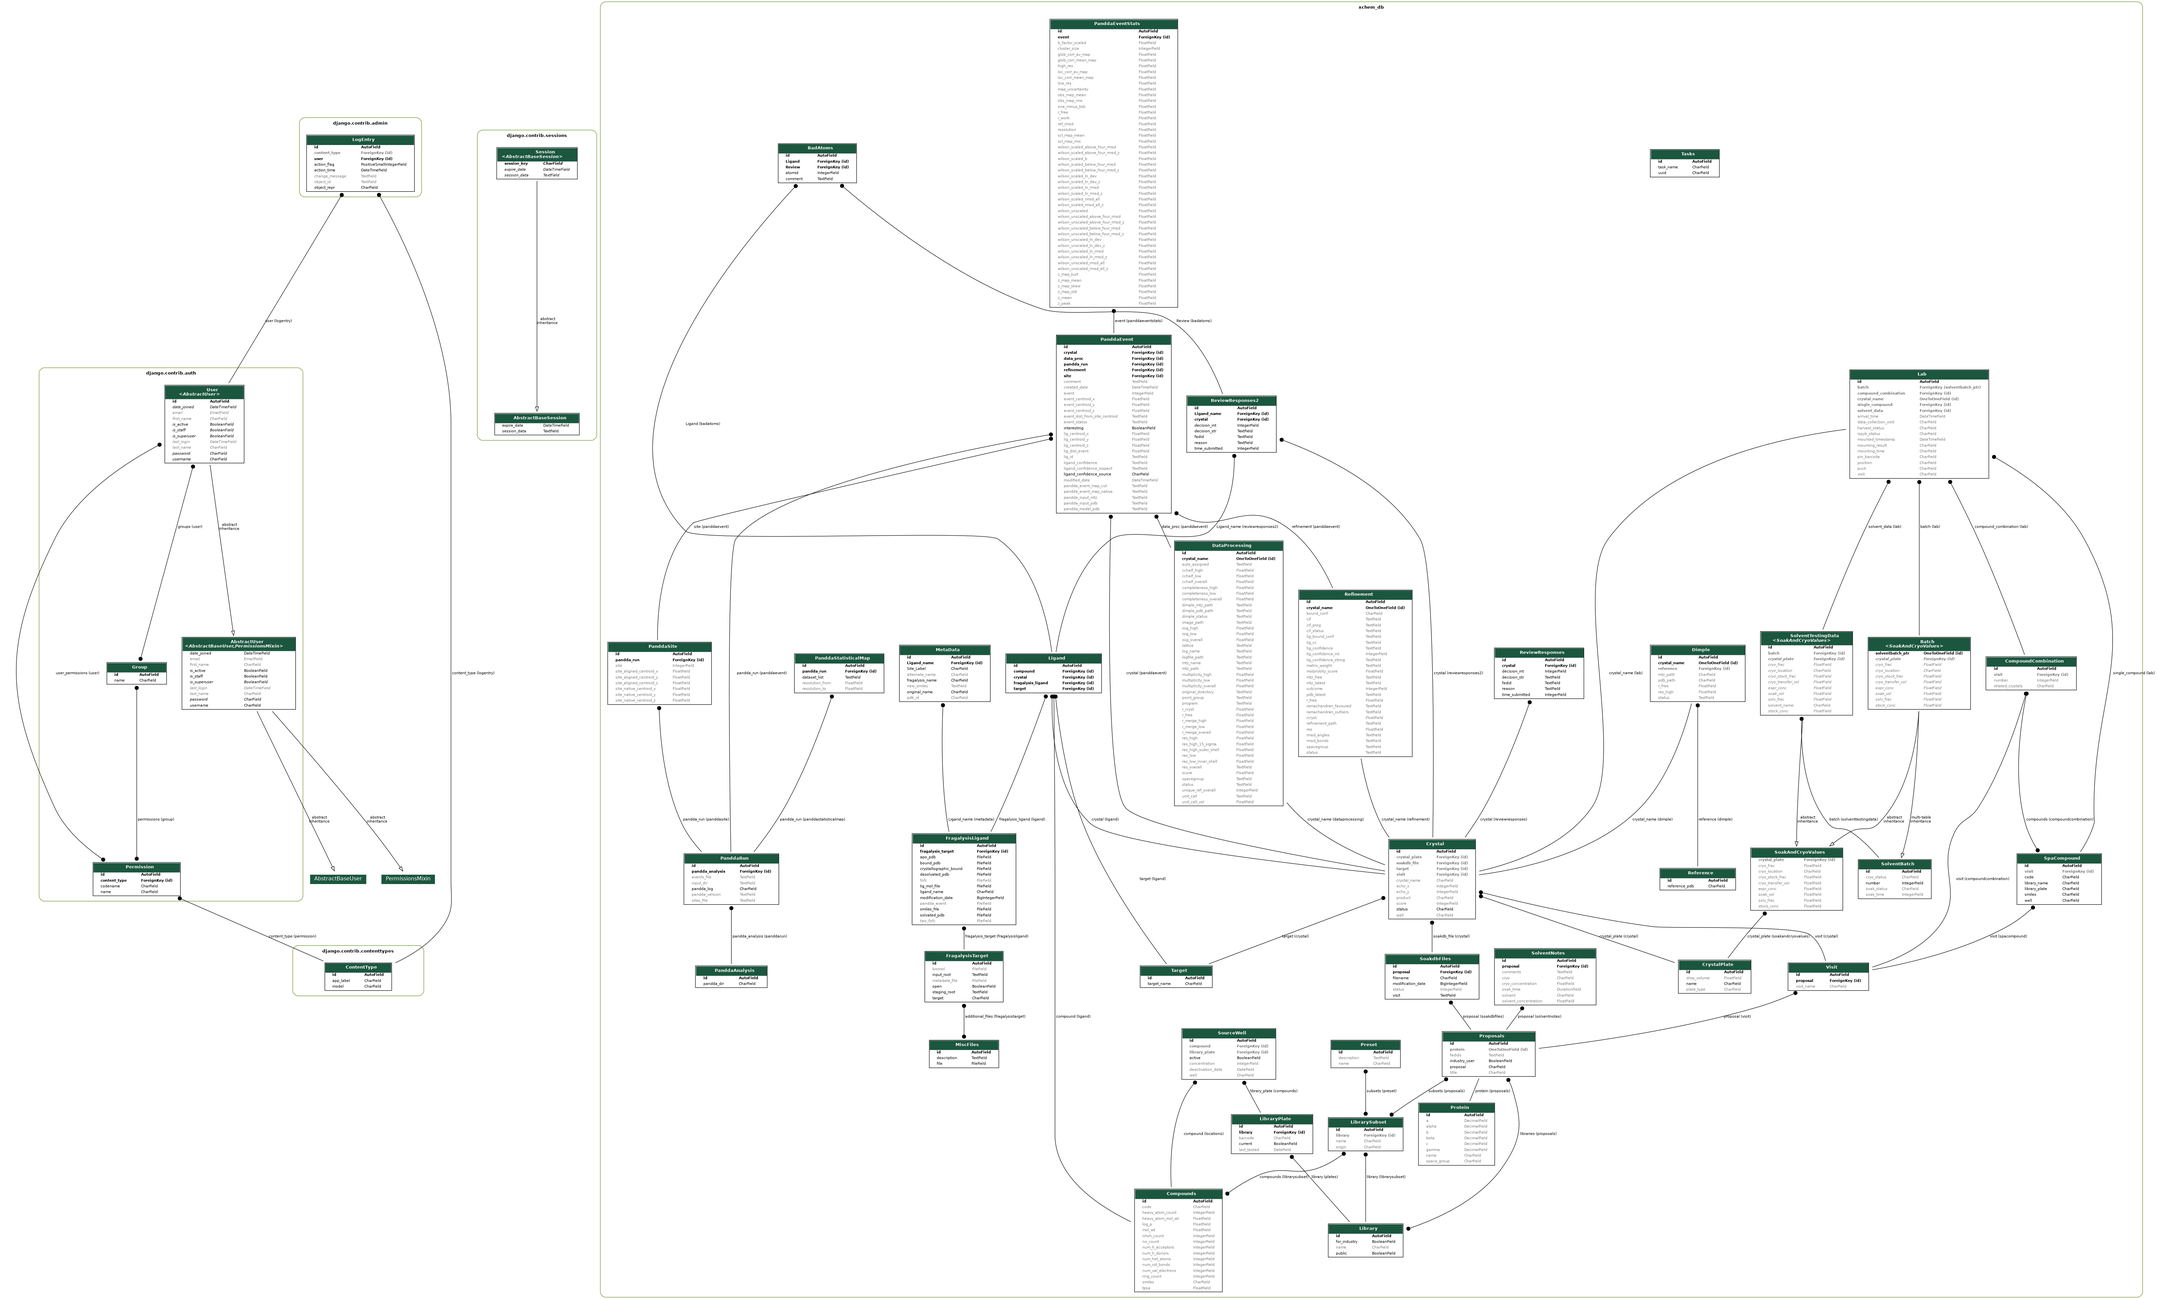
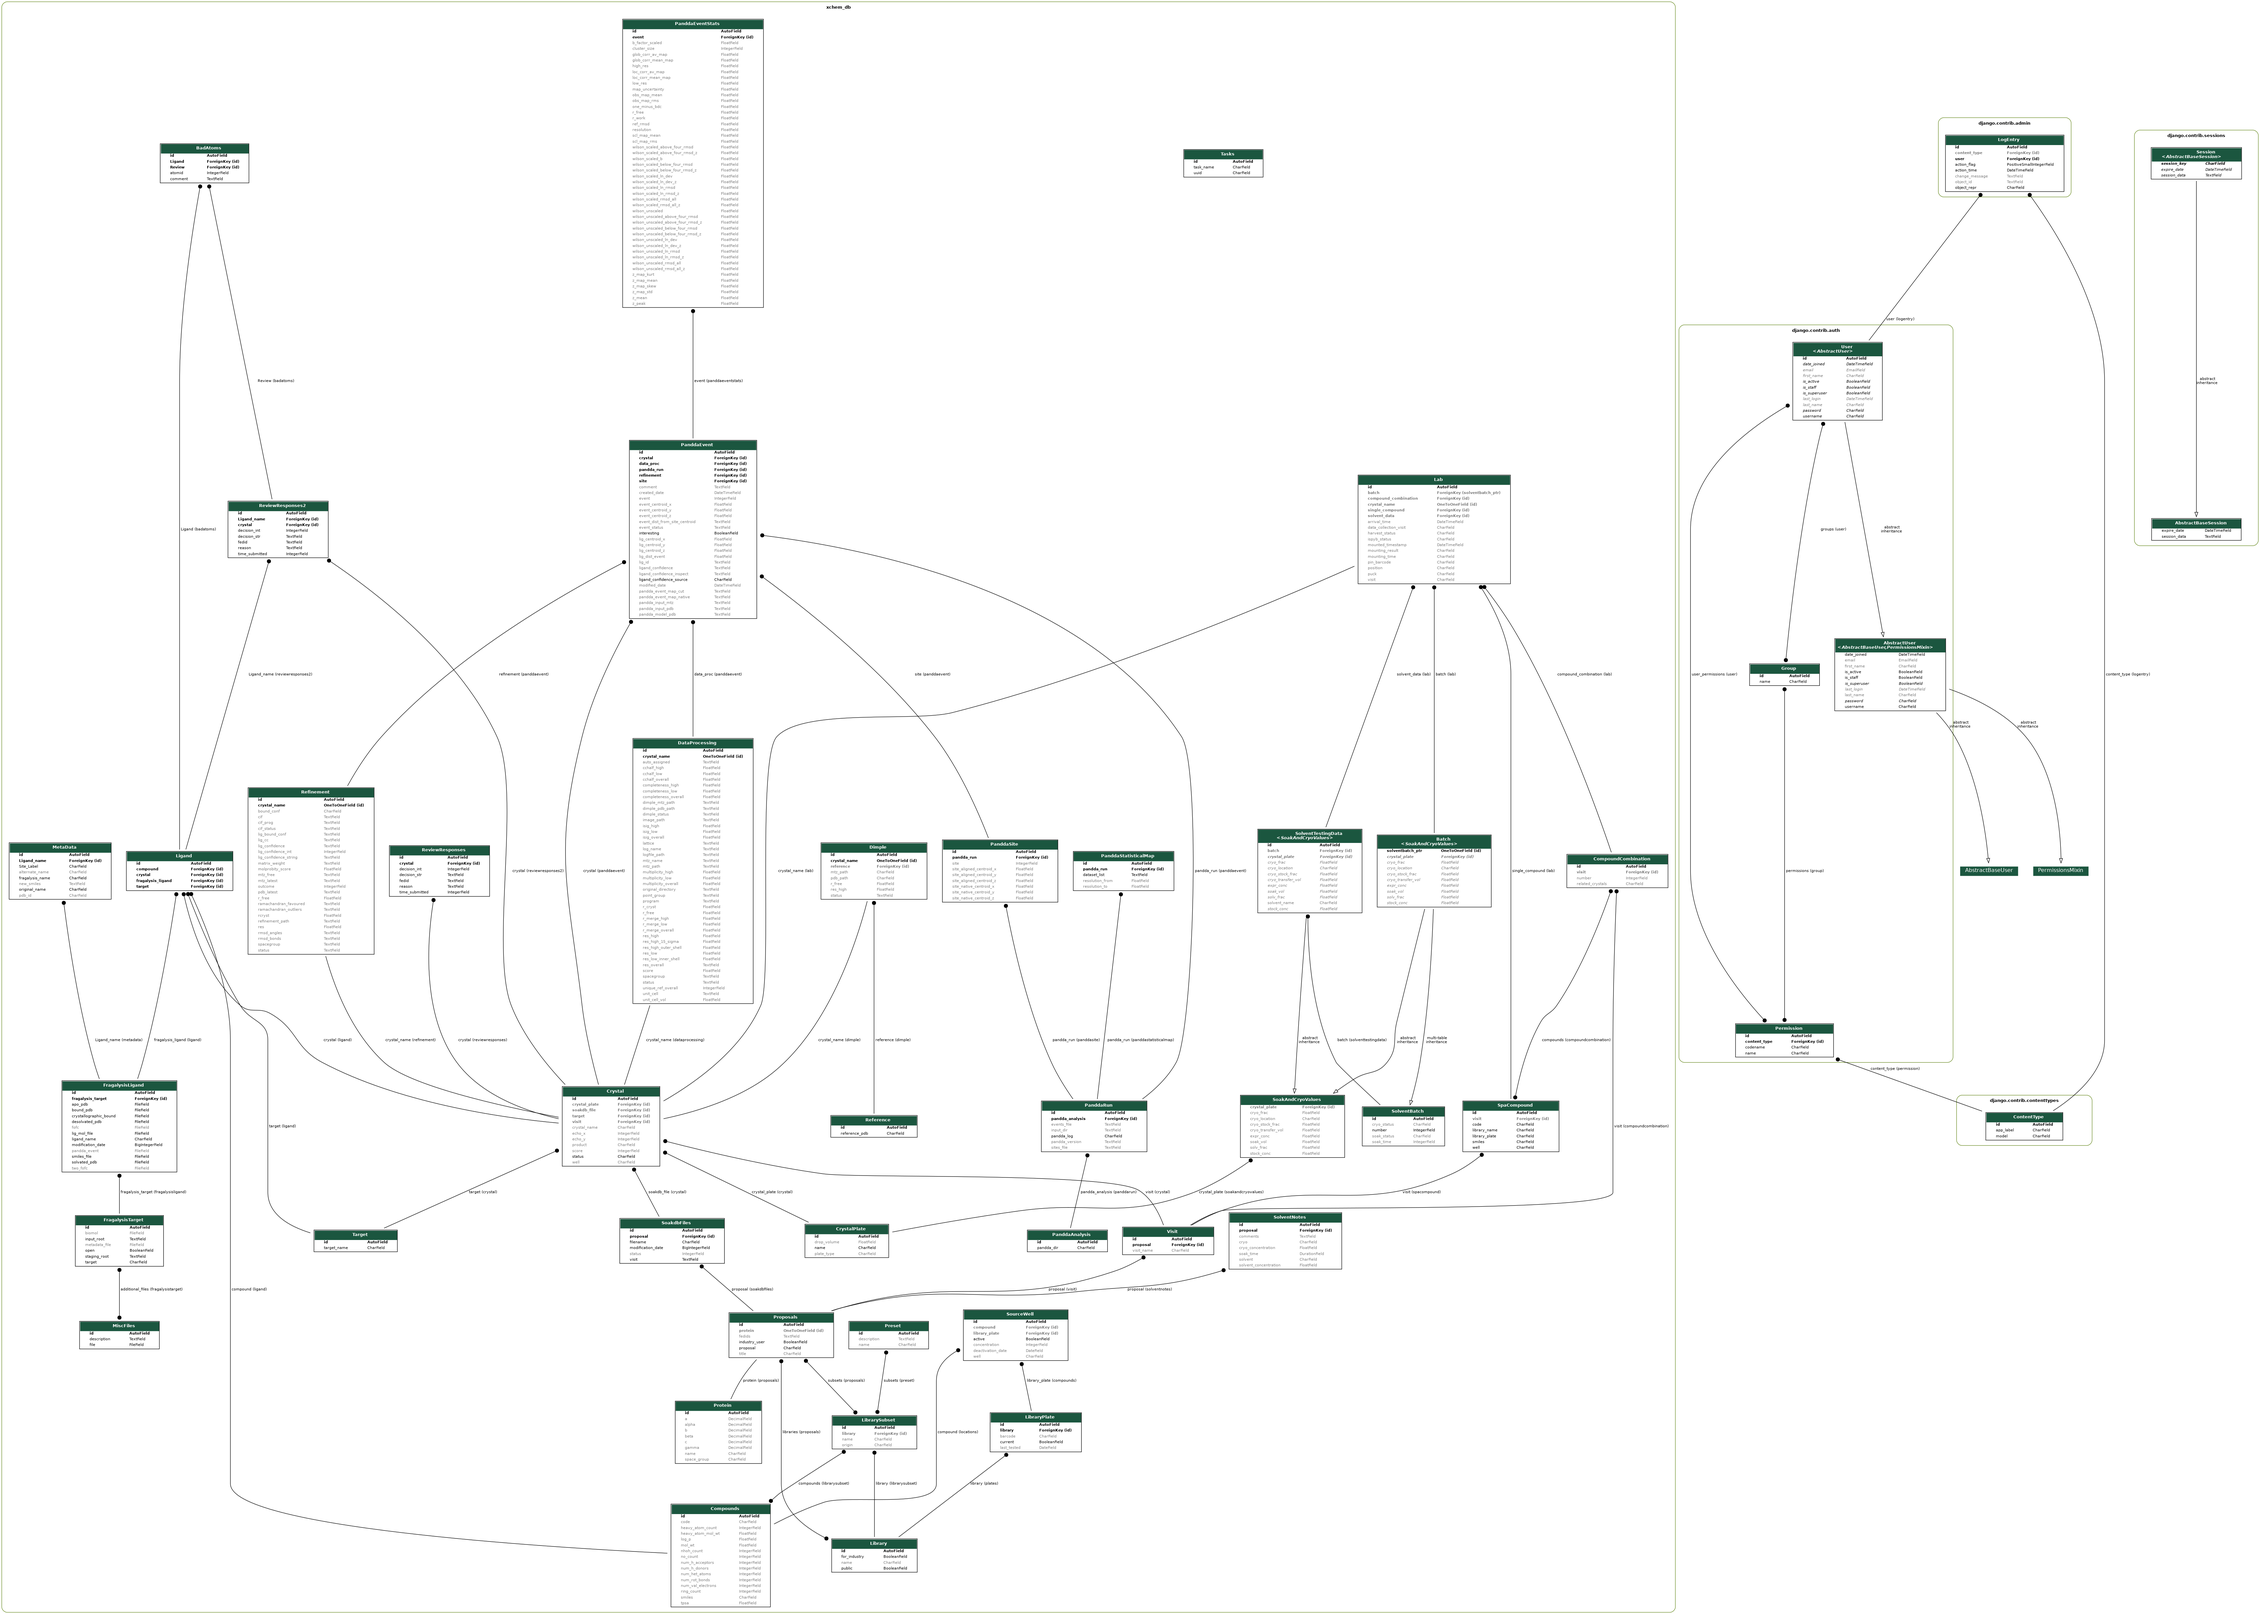
add ispyb-dja model as fk to Proposals

diff --git a/xchem_db/models.py b/xchem_db/models.py
@@ -1,6 +1,8 @@
 from __future__ import unicode_literals
 from django.db import models
 
+from ispyb_dja.django_auth.models import IspybAuthorization
+
 #INVENTORY DATA
 
 class Protein(models.Model):
@@ -122,10 +124,16 @@ class Reference(models.Model):
 
 class Proposals(models.Model):
 
+    # Fields in this model:
+    # project = models.CharField(max_length=200, unique=True)
+    # proposal_visit = models.CharField(max_length=200, unique=True)
+    # users = models.ManyToManyField(User)
+    proposal_visit = models.ForeignKey(IspybAuthorization, on_delete=models.CASCADE)
+
     # TODO - can we refactor this for title [original comment]
-    proposal = models.CharField(max_length=255, blank=False, null=False, unique=True)
-    title = models.CharField(max_length=10, blank=True, null=True)
-    fedids = models.TextField(blank=True, null=True)
+    # proposal = models.CharField(max_length=255, blank=False, null=False, unique=True)
+    # title = models.CharField(max_length=10, blank=True, null=True)
+    # fedids = models.TextField(blank=True, null=True)
 
     #SPA-related data
     industry_user = models.BooleanField(default=True) # just in case false by default - fewer privileges
@@ -137,9 +145,9 @@ class Proposals(models.Model):
          return self.name + "proposal object"
          
 
-class Visit(models.Model):
-	visit_name = models.CharField(max_length=32, blank=True, null=True)
-	proposal = models.ForeignKey(Proposals, on_delete=models.CASCADE)
+# class Visit(models.Model):
+#     visit_name = models.CharField(max_length=32, blank=True, null=True)
+#     proposal = models.ForeignKey(Proposals, on_delete=models.CASCADE)
 	
 
 

diff --git a/xchem_db/settings.py b/xchem_db/settings.py
@@ -40,6 +40,7 @@ INSTALLED_APPS = [
     'django.contrib.messages',
     'django.contrib.staticfiles',
     'django_extensions',
+    'ispyb_dja'
 
 ]
 
